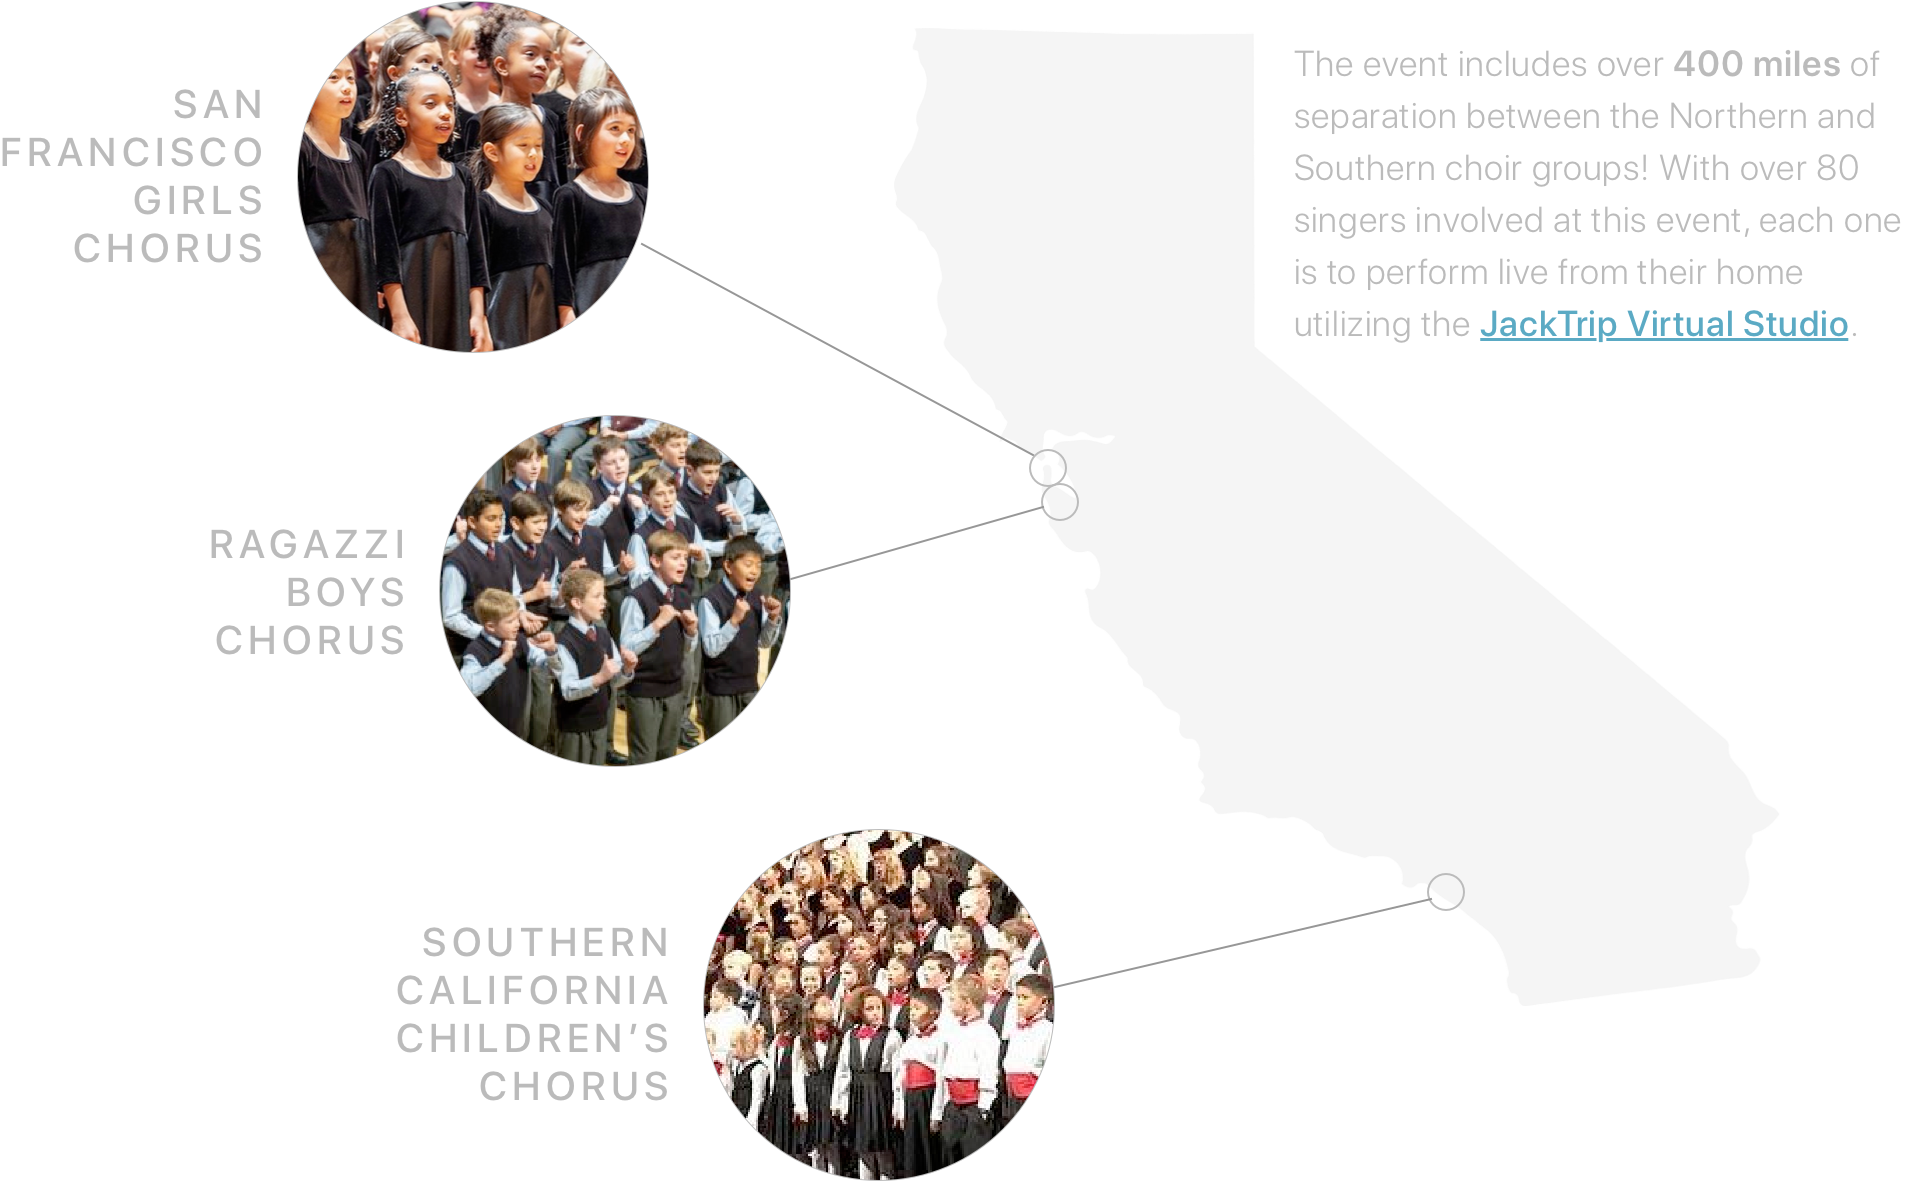
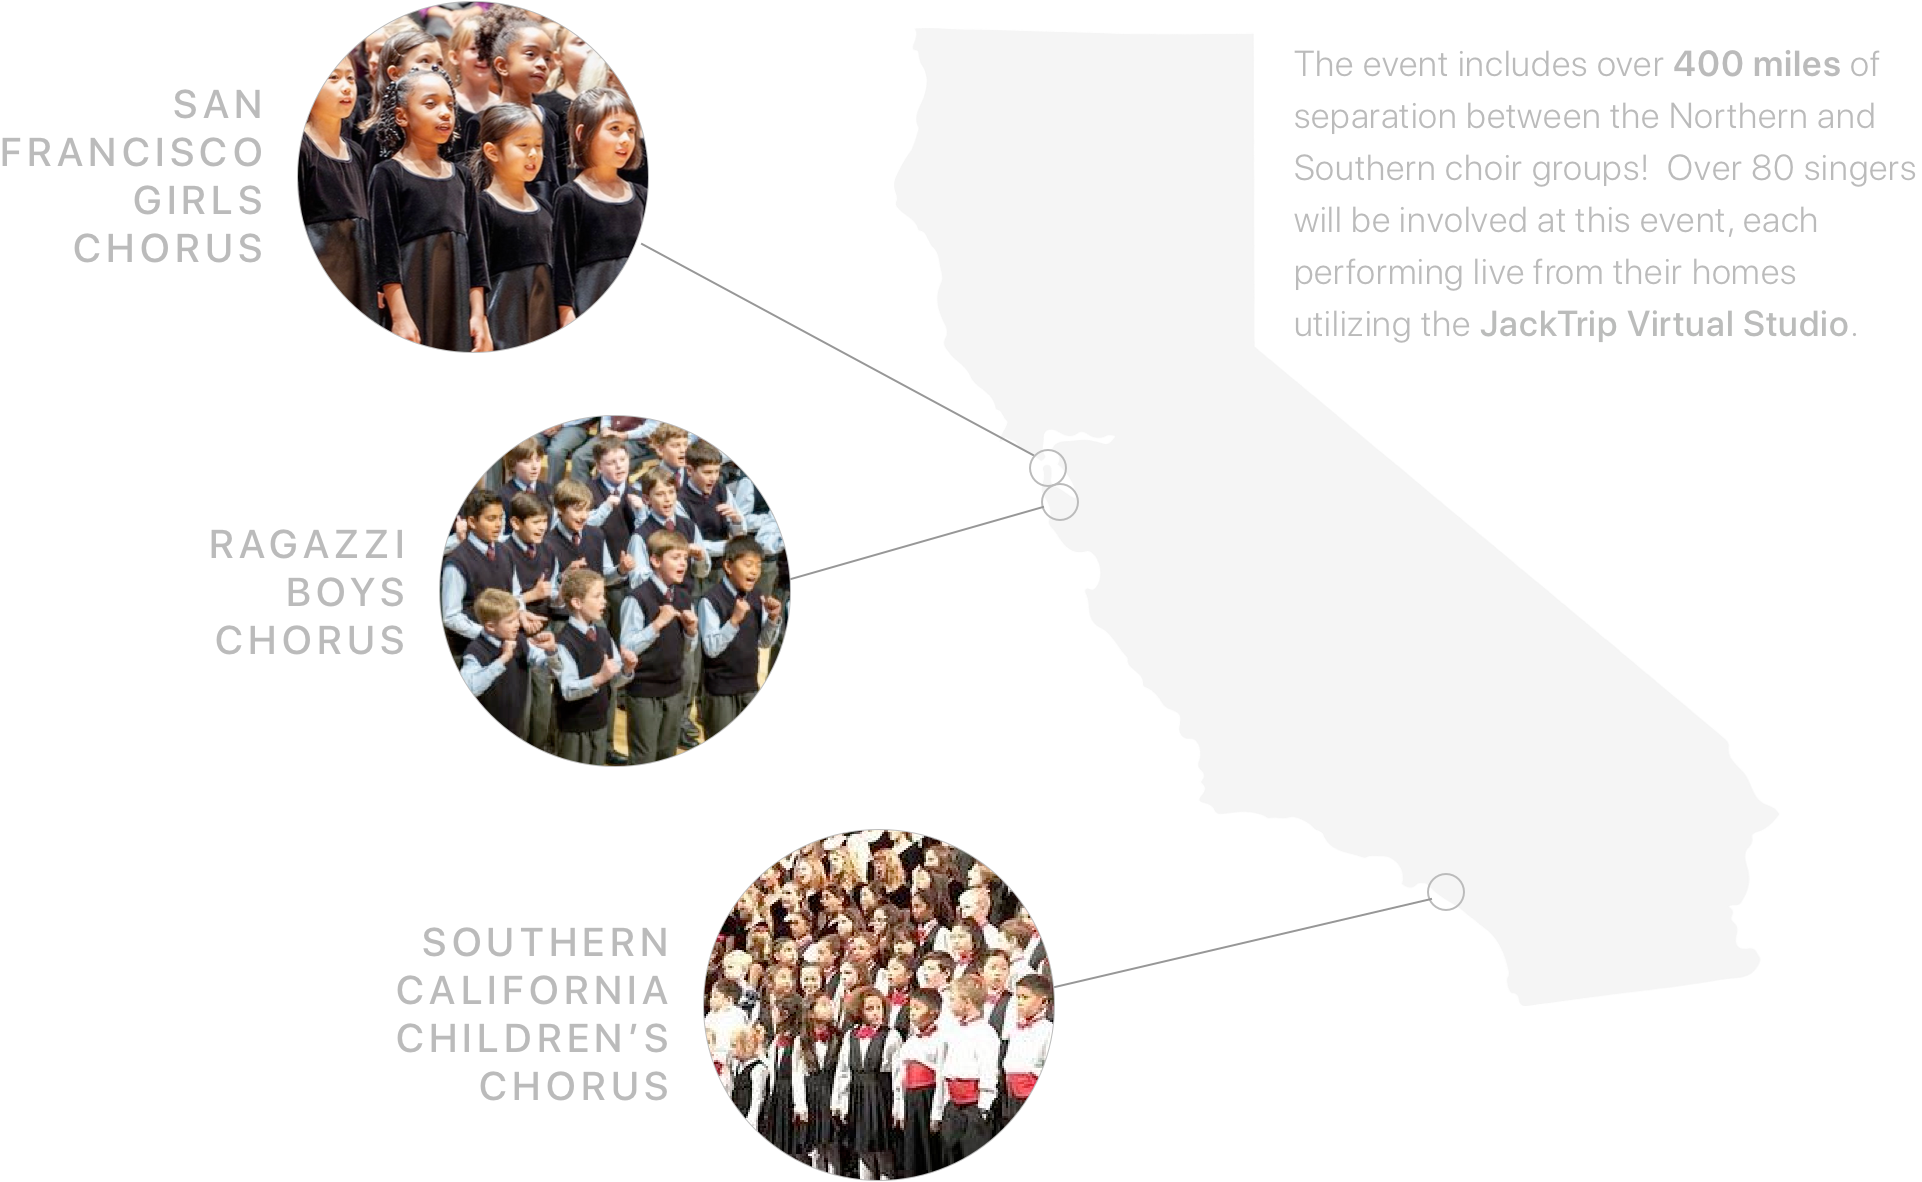
Website Updates - 05/21/21 v1
- Whitacre team feedback updates to text and poster frame
- Mike feedback updates to text

Changed region(s): [[0.6556, 0.1827, 0.999, 0.3046], [0.8741, 0.1218, 0.999, 0.1523]]

diff --git a/ericwhitacre/index.html b/ericwhitacre/index.html
@@ -93,15 +93,13 @@
         margin: 0 auto;
         flex-direction: row;
         align-items: center;
-        width: 35%;
-        margin-top: 3%;
+        
       }
 
       #logo{
         margin: 0 auto;
         flex-direction: row;
         align-items: center;
-        width: 33%;
       }
 
       #logo img{
@@ -110,22 +108,16 @@
 
       .intro{
         text-transform: uppercase;
-        font-size: 18px;
         font-weight: 300;
         margin: 0 auto;
         text-align: center;
-        padding-top: 2%;
-        letter-spacing: 4px;
       }
 
       .ptxt{
-        font-size: 18px;
         font-weight: 300;
         margin: 0 auto;
         text-align: left;
-        padding-top: 2%;
-        line-height: 26px;
-        letter-spacing: .25px;
+ 
       }
 
       #poster{
@@ -133,8 +125,6 @@
         margin: 0 auto;
         flex-direction: row;
         align-items: center;
-        margin-top: 1%;
-        
       }
 
       .center{
@@ -147,14 +137,11 @@
       }
 
       .time-date{
-        font-size: 30px;
         font-weight: 400;
         color: white;
-        margin-top:1.5%;
       }
 
       .info-graphic{
-        width: 90%;
         margin: 0 auto;
         flex-direction: row;
         align-items: center;
@@ -166,9 +153,7 @@
 
       .cta-cont{
         width: 100%;
-
         margin: 0 auto;
-        padding-top:3%;
         flex-direction: row;
         text-align: center;
       }
@@ -219,6 +204,8 @@
       }
       
     </style>
+    
+    <link rel="stylesheet" href="css/index.css">
 
 </head>
 

diff --git a/ericwhitacre/css/index.css b/ericwhitacre/css/index.css
@@ -1,0 +1,50 @@
+@media (min-width: 0px) {
+    #hubspot {
+        width: 35%;
+        margin-top: 3%;
+    }
+
+    #logo {
+        width: 33%;
+    }
+
+    .intro{
+        font-size: 18px;
+        padding-top: 2%;
+        letter-spacing: 4px;
+      }
+
+      .ptxt{
+        font-size: 18px;
+        padding-top: 2%;
+        line-height: 26px;
+        letter-spacing: .25px;
+      }
+
+      #poster{
+        margin-top: 1%; 
+      }
+
+      .time-date{
+        font-size: 30px;
+        margin-top:1.5%;
+      }
+
+      .info-graphic{
+        width: 90%;
+      }
+
+      .cta-cont{
+        padding-top:3%;
+      }
+}
+
+
+@media (min-width: 320px) {}
+
+
+
+@media (min-width: 750px) {}
+
+
+@media (min-width: 1000px) {}
